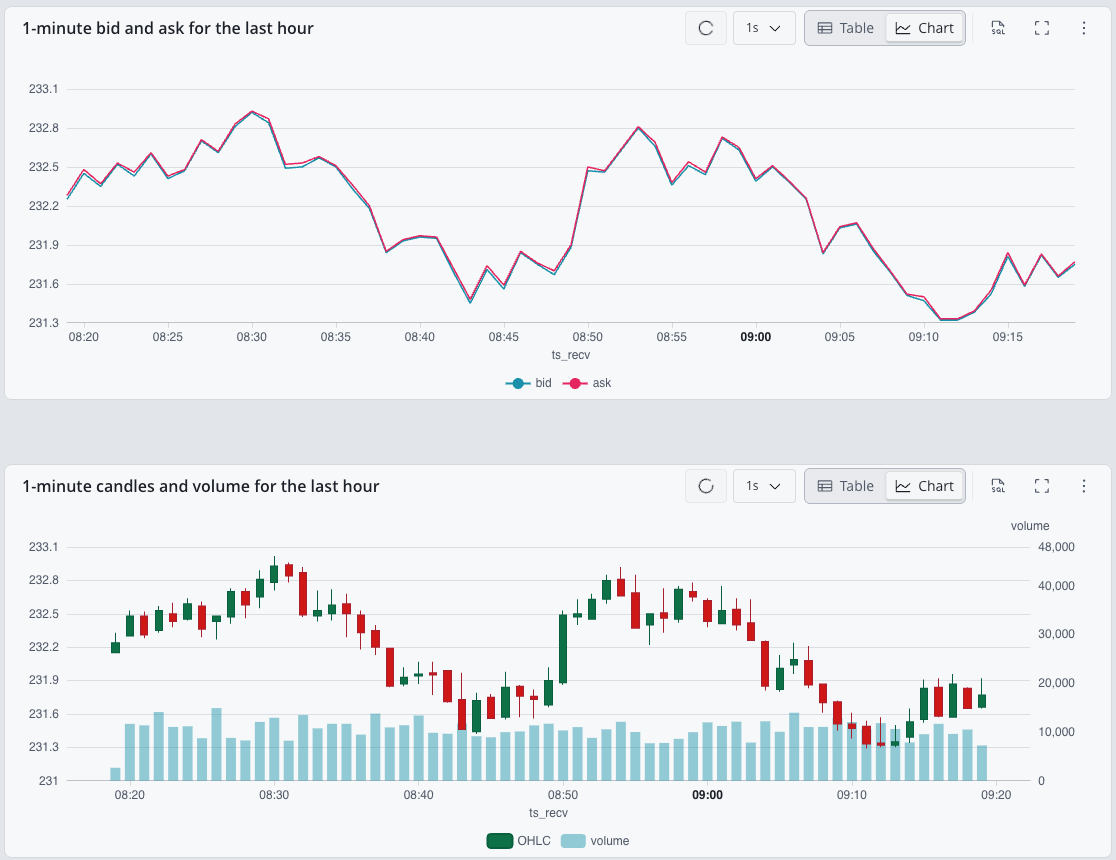
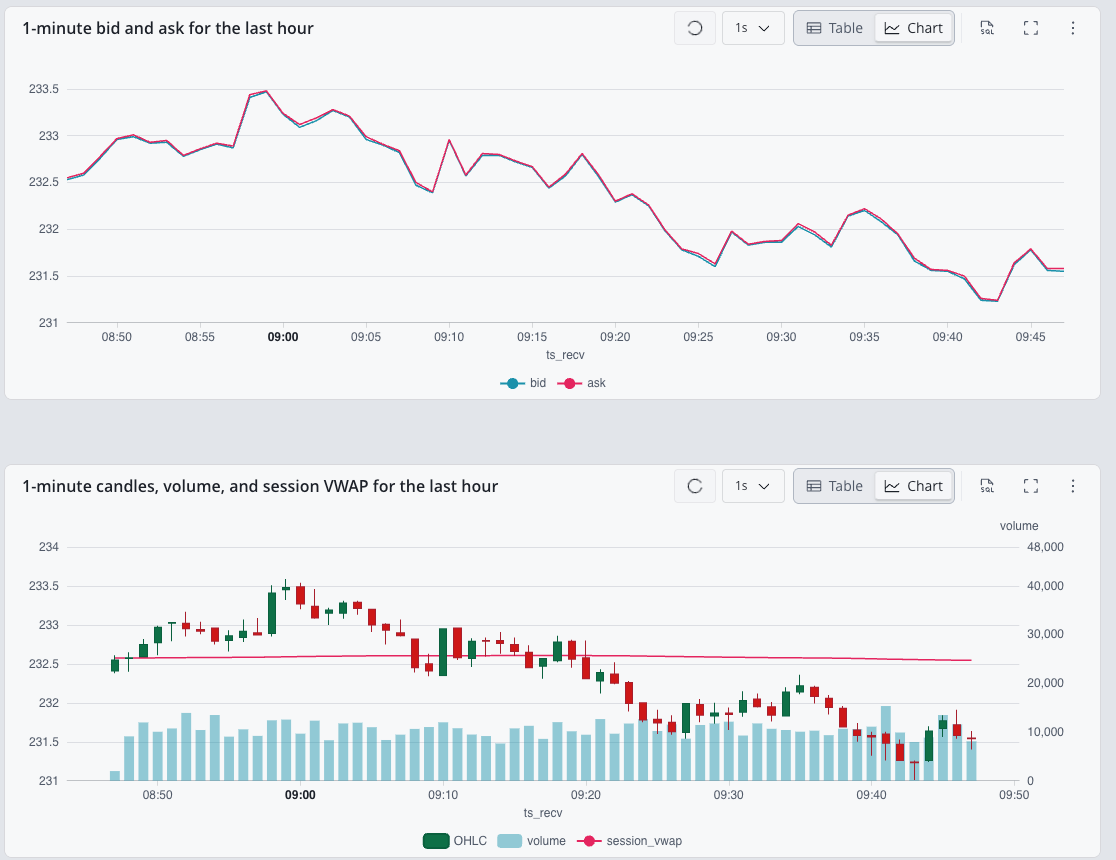
Add Databento storage policy, materialized and live view examples
On the connector page, add a storage policy subsection with the DROP LOCAL backfill caveat, and a Materialized views and live views section with 5-minute candles from raw trades and a session VWAP live view anchored at midnight New York time. Overlay the session VWAP on the candle chart and refresh the screenshot. Add a shorter materialized view section to the Python guide, and update the changelog.

diff --git a/documentation/connect/connectors/databento.md b/documentation/connect/connectors/databento.md
@@ -321,6 +321,102 @@ as `DOUBLE[]`. MBO is stored as individual order events, not reconstructed book
 arrays. See [Order book analytics](/docs/tutorials/order-book/) for more
 queries.
 
+### Storage policy
+
+Market data tables grow every day. A
+[storage policy](/docs/concepts/storage-policy/) converts older partitions to
+Parquet and moves them to [cold storage](/docs/concepts/cold-storage/) in object
+storage, where they stay queryable. Set it on each destination table after the
+connector has created it:
+
+```questdb-sql title="Tier order book partitions to object storage"
+ALTER TABLE equs_orderbook SET STORAGE POLICY(
+    TO PARQUET 7d,
+    TO REMOTE 14d,
+    DROP LOCAL 30d
+);
+```
+
+`TO REMOTE` requires cold storage to be configured; without it, `DROP LOCAL`
+deletes the partition. `DROP LOCAL` also seals the partition as read-only, and
+later writes to it are skipped. Keep it beyond the range of any
+[Historical backfill](#historical-backfills) into the same table.
+
+## Materialized views and live views
+
+Some Databento schemas are already aggregated by time slice: OHLCV bars at one
+second, minute, hour, and day, and BBO and CBBO snapshots at one second and one
+minute. Subscribe to those directly when they fit. To aggregate the raw
+`trades` or `mbp-1` data in other ways, keep the result in QuestDB:
+
+- A [materialized view](/docs/concepts/materialized-views/) maintains
+  time-bucketed aggregates, such as candles at an interval Databento does not
+  provide.
+- A [live view](/docs/concepts/live-views/) maintains window-function results
+  per row, such as indicators that accumulate through a trading session.
+
+Both refresh as the connector writes, and both are read like regular tables.
+
+### Candles with a materialized view
+
+This view keeps 5-minute candles with volume per symbol:
+
+```questdb-sql title="5-minute OHLCV bars from raw trades"
+CREATE MATERIALIZED VIEW equs_trades_ohlcv_5m AS
+SELECT
+  ts_recv,
+  symbol,
+  first(price) AS open,
+  max(price) AS high,
+  min(price) AS low,
+  last(price) AS close,
+  sum(size) AS volume
+FROM equs_trades
+SAMPLE BY 5m;
+```
+
+The bars are bucketed by `ts_recv`, the designated timestamp, whereas
+Databento's OHLCV schemas use event time, so a trade near a bar boundary can
+fall into a different bar. A view built on an aggregated schema such as
+`ohlcv-1m` does not have this issue, because OHLCV tables use `ts_event` as
+their designated timestamp.
+
+### Session VWAP with a live view
+
+An [anchored window](/docs/concepts/live-views/#anchored-windows) resets a
+live view's calculation at a fixed wall-clock time. This view keeps a session
+VWAP and volume per symbol, resetting at midnight New York time:
+
+```questdb-sql title="Session VWAP per symbol, reset at midnight New York time"
+CREATE LIVE VIEW equs_session_vwap
+FLUSH EVERY 1s
+START FROM BEGINNING
+AS
+SELECT
+  ts_recv,
+  symbol,
+  price,
+  sum(price * size) OVER w / sum(size) OVER w AS session_vwap,
+  sum(size) OVER w AS session_volume
+FROM equs_trades
+WINDOW w AS (
+  PARTITION BY symbol
+  ORDER BY ts_recv
+  ANCHOR DAILY '00:00' 'America/New_York'
+);
+```
+
+`START FROM BEGINNING` seeds the view from the trades already stored, so the
+current session is complete from the first read. On a large table, start from a
+recent timestamp instead, such as `START FROM '2026-10-21T04:00:00Z'`.
+
+```questdb-sql title="Latest session VWAP for AAPL"
+SELECT ts_recv, symbol, price, session_vwap, session_volume
+FROM equs_session_vwap
+WHERE symbol = 'AAPL'
+LIMIT -10;
+```
+
 ## Visualize the data
 
 ### In a Web Console notebook
@@ -331,8 +427,8 @@ in a Web Console notebook. Notebooks are built into QuestDB and run under the
 same users and permissions as the Web Console, with no extra tool to install.
 
 <Screenshot
-  alt="A Web Console notebook charting 1-minute AAPL bid and ask, and 1-minute candles with volume, for the last hour"
-  title="Quotes and trades from the quick start on a live notebook dashboard."
+  alt="A Web Console notebook charting 1-minute AAPL bid and ask, and 1-minute candles with volume and the session VWAP, for the last hour"
+  title="Quotes, trades, and the session VWAP live view on a live notebook dashboard."
   src="images/docs/databento/notebook-dashboard.webp"
   height={860}
   width={1116}
@@ -351,13 +447,15 @@ same users and permissions as the Web Console, with no extra tool to install.
    SAMPLE BY 1m;
    ```
 
-3. Add a second cell with these two statements and press **Draw** to chart
-   candles with volume bars behind them. In
+3. Add a second cell with these statements and press **Draw** to chart candles
+   with volume bars behind them and the session VWAP as a line. In
    [Chart settings](/docs/getting-started/web-console/notebooks/charts#chart-settings),
    assign the volume query to the right axis and cap that axis so the bars stay
-   low:
+   low. The third statement reads the
+   [session VWAP live view](#session-vwap-with-a-live-view); leave it out if you
+   have not created the view:
 
-   ```questdb-sql title="1-minute candles and volume for the last hour"
+   ```questdb-sql title="1-minute candles, volume, and session VWAP for the last hour"
    SELECT ts_recv, first(price) AS open, max(price) AS high,
      min(price) AS low, last(price) AS close
    FROM equs_trades
@@ -366,6 +464,11 @@ same users and permissions as the Web Console, with no extra tool to install.
 
    SELECT ts_recv, sum(size) AS volume
    FROM equs_trades
+   WHERE symbol = @symbol AND ts_recv IN @window
+   SAMPLE BY 1m;
+
+   SELECT ts_recv, last(session_vwap) AS session_vwap
+   FROM equs_session_vwap
    WHERE symbol = @symbol AND ts_recv IN @window
    SAMPLE BY 1m;
    ```

diff --git a/documentation/integrations/other/databento.md b/documentation/integrations/other/databento.md
@@ -154,6 +154,30 @@ LIMIT 10;
 
 See the [SQL overview](/docs/query/overview/) for more queries.
 
+## Materialized views and live views
+
+To keep aggregates up to date as the script writes, without recomputing them on
+every query, define them once in QuestDB. A
+[materialized view](/docs/concepts/materialized-views/) maintains time-bucketed
+results, such as 1-minute quotes with their average spread:
+
+```questdb-sql title="1-minute quotes and average spread"
+CREATE MATERIALIZED VIEW top_of_book_1m AS
+SELECT
+  timestamp,
+  symbol,
+  last(bid) AS bid,
+  last(ask) AS ask,
+  avg(ask - bid) AS avg_spread
+FROM top_of_book
+SAMPLE BY 1m;
+```
+
+A [live view](/docs/concepts/live-views/) maintains window-function results per
+row, such as indicators that reset at the start of each trading session. The
+[Databento connector](/docs/connect/connectors/databento/#materialized-views-and-live-views)
+page shows a session VWAP example.
+
 ## Visualize the data
 
 ### In a Web Console notebook
